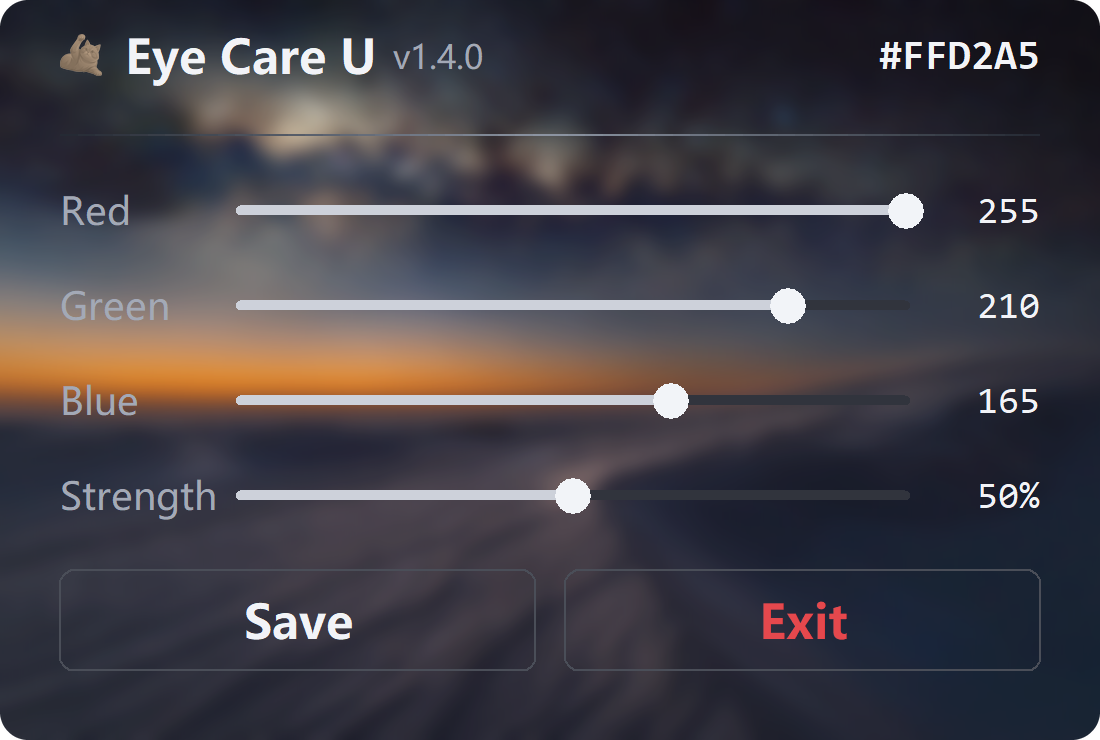
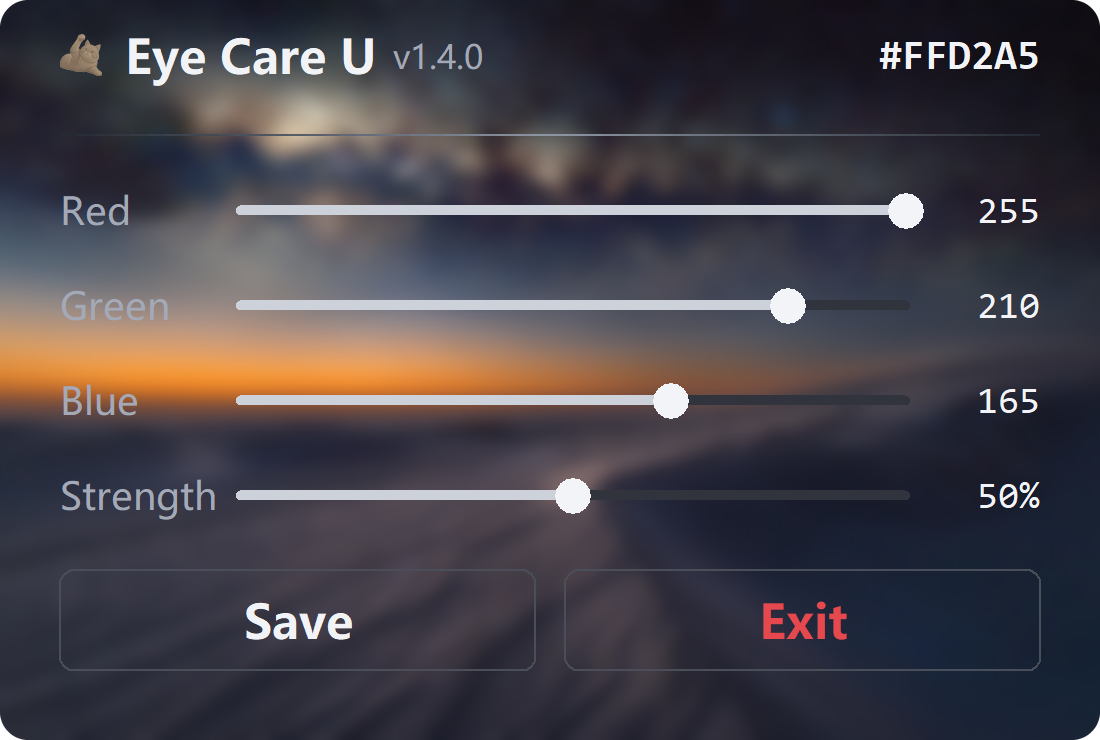
feat: 玻璃底 0% 压暗高透试验（纯 DWM 模糊），QA 更新条用例改为可重复
- 实机面板移除压暗网点，玻璃=纯 DWM 模糊；渲染 TINT_ALPHA 同步 0
- 上一版（6% 压暗，gray12 × #262B33）保留在 963efef 可随时回退
- menu_qa 更新条用例重置 update_dismissed，消除跨运行状态泄漏

Changed region(s): [[0.0618, 0.4662, 0.3709, 0.5284]]

diff --git a/eye_care_u.py b/eye_care_u.py
@@ -634,9 +634,9 @@ class GlassPanel:
         cv.delete("all")
         s = self.app.settings
 
-        # 玻璃底：黑色渲染为玻璃（不接收穿透），叠加 12.5% 暗色（高透）
-        cv.create_rectangle(0, 0, PANEL_W, PANEL_H, fill=GLASS_TINT,
-                            outline="", stipple="gray12")
+        # 玻璃底：黑色渲染为玻璃（不接收穿透）。0% 压暗高透试验——
+        # 纯 DWM 模糊，无任何暗色叠加；回退版见 963efef（gray12 × #262B33 ≈ 6%）
+        pass
 
         # 头部：猫 logo（染当前色，即色块本体）+ 应用名 + 右侧 HEX 读数
         self._photo = self._tint_photo()

diff --git a/tools/menu_qa.py b/tools/menu_qa.py
@@ -79,8 +79,10 @@ def main():
     app.actions = queue.Queue()
     app._panel = None
     app.save_count = 0
-    # 造一个“有新版”状态：更新条应出现（999.0.0 恒大于 APP_VERSION）
+    # 造一个“有新版”状态：更新条应出现（999.0.0 恒大于 APP_VERSION）；
+    # 同时清掉上次运行可能留下的已关闭标记，保证用例可重复
     app.settings["update_latest"] = "999.0.0"
+    app.settings["update_dismissed"] = ""
 
     def fake_save():
         app.save_count += 1

diff --git a/tools/panel_render.py b/tools/panel_render.py
@@ -30,7 +30,7 @@ RADIUS = 28      # 圆角半径（源图像素）
 OUT = os.path.join(ROOT, "docs", "panel.png")
 WALLPAPER = os.path.join(ROOT, "assets", "wallpaper.png")
 BLUR_RADIUS = 8    # 亚克力模糊强度（合成尺寸下的高斯半径），高透
-TINT_ALPHA = 0.125  # 玻璃压暗比例，对齐实机 GLASS_TINT stipple gray12
+TINT_ALPHA = 0.0   # 0% 压暗：纯模糊玻璃，与实机当前版本一致（回退版见 963efef）
 
 
 def cover_crop(img, w, h):
